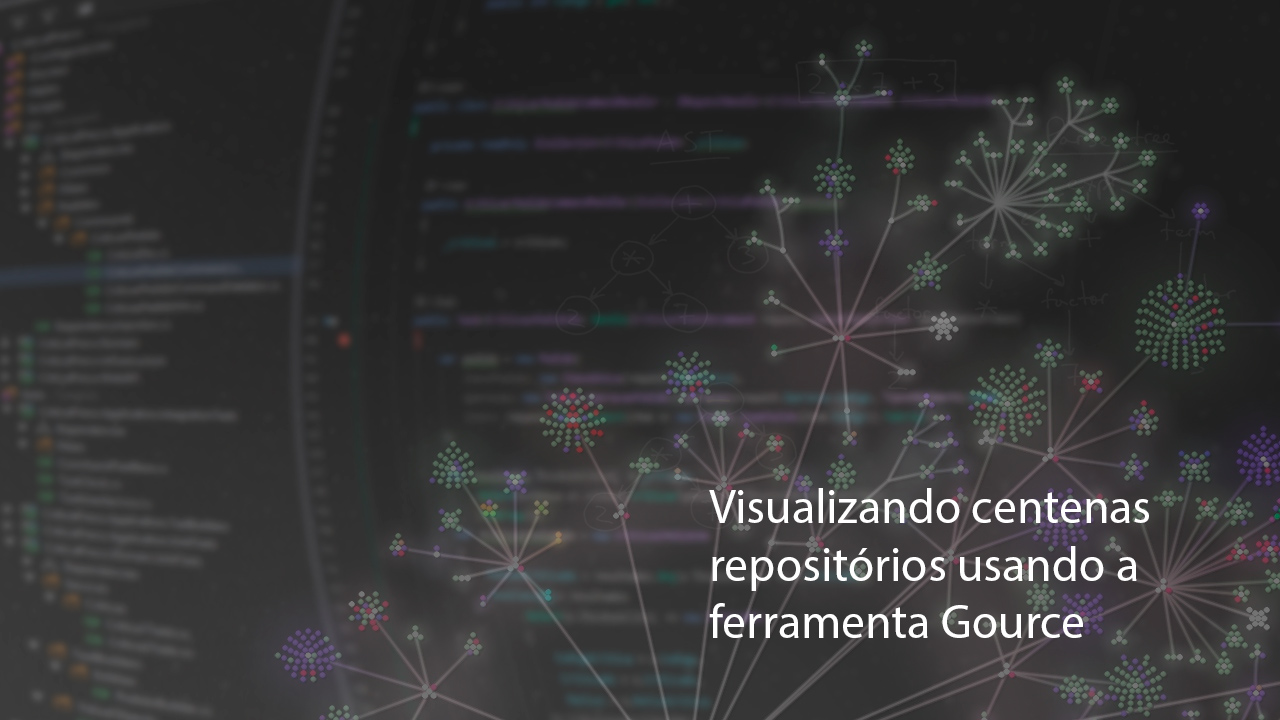
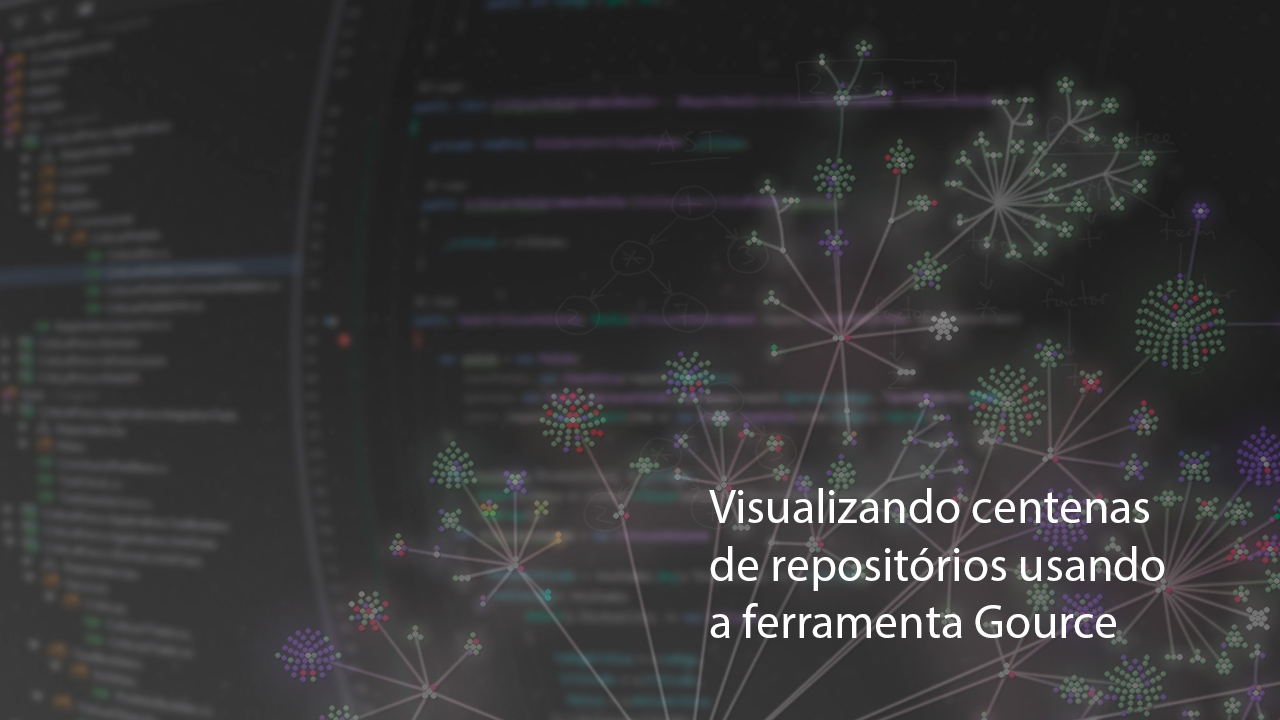
Atualização

Changed region(s): [[0.5312, 0.7639, 0.9062, 0.8861]]

diff --git a/posts/artigo-visualizando-centenas-projetos-com-gource/index.html b/posts/artigo-visualizando-centenas-projetos-com-gource/index.html
@@ -15,8 +15,8 @@
          "@id": "https:\/\/blog.dyegomaas.com.br\/"
     },
     "articleSection" : "posts",
-    "name" : "Visualizando centenas repositórios usando a ferramenta Gource",
-    "headline" : "Visualizando centenas repositórios usando a ferramenta Gource",
+    "name" : "Visualizando centenas de repositórios usando a ferramenta Gource",
+    "headline" : "Visualizando centenas de repositórios usando a ferramenta Gource",
     "description" : "Descubra como visualizar o trabalho de centenas de pessoas usando centenas de repositórios Git usando a ferramenta Gource",
     "inLanguage" : "pt-BR",
     "author" : {
@@ -55,7 +55,7 @@
     
     
 
-<title itemprop="name">Visualizando centenas repositórios usando a ferramenta Gource - Blog Dyego Maas</title>
+<title itemprop="name">Visualizando centenas de repositórios usando a ferramenta Gource - Blog Dyego Maas</title>
 <meta property="description" content="Descubra como visualizar o trabalho de centenas de pessoas usando centenas de repositórios Git usando a ferramenta Gource" />
 
 
@@ -79,8 +79,8 @@
 <link rel="canonical" href="https://blog.dyegomaas.com.br/posts/artigo-visualizando-centenas-projetos-com-gource/" itemprop="url" />
 <meta name="url" content="https://blog.dyegomaas.com.br/posts/artigo-visualizando-centenas-projetos-com-gource/" />
 <meta property="og:site_name" content="Blog - Dyego Maas" />
-<meta property="og:title" content="Visualizando centenas repositórios usando a ferramenta Gource" />
-<meta property="twitter:title" content="Visualizando centenas repositórios usando a ferramenta Gource" />
+<meta property="og:title" content="Visualizando centenas de repositórios usando a ferramenta Gource" />
+<meta property="twitter:title" content="Visualizando centenas de repositórios usando a ferramenta Gource" />
 <meta property="og:description" content="Descubra como visualizar o trabalho de centenas de pessoas usando centenas de repositórios Git usando a ferramenta Gource" />
 <meta property="twitter:description" content="Descubra como visualizar o trabalho de centenas de pessoas usando centenas de repositórios Git usando a ferramenta Gource" />
 <meta property="og:type" content="article" />
@@ -316,7 +316,7 @@
     
 <article class="real">
   <header>
-    <h1>Visualizando centenas repositórios usando a ferramenta Gource</h1>
+    <h1>Visualizando centenas de repositórios usando a ferramenta Gource</h1>
     
     
 <div class="post__meta">
@@ -399,7 +399,7 @@
         <p class="post-series-paragraph">Posts na série:</p>
         <ul class="series">
         
-          <li><a href="https://blog.dyegomaas.com.br/posts/artigo-visualizando-centenas-projetos-com-gource/">12/2021 - Visualizando centenas repositórios usando a ferramenta Gource</a></li>
+          <li><a href="https://blog.dyegomaas.com.br/posts/artigo-visualizando-centenas-projetos-com-gource/">12/2021 - Visualizando centenas de repositórios usando a ferramenta Gource</a></li>
         
           <li><a href="https://blog.dyegomaas.com.br/posts/artigo-como-visualizar-desenvolvimento-com-gource/">06/2020 - Como visualizar o desenvolvimento de projetos com Gource</a></li>
         
@@ -1089,8 +1089,8 @@ text-align: center;
 
 <span style="color: silver;">Compartilhe: </span><div id="share-buttons">
 <div class="facebook" title="Compartilhe no Facebook" onclick="window.open('http://www.facebook.com/sharer/sharer.php?u=https:\/\/blog.dyegomaas.com.br\/posts\/artigo-visualizando-centenas-projetos-com-gource\/', 'sharer', 'width=626,height=436');"><svg viewBox="0 0 1792 1792" xmlns="http://www.w3.org/2000/svg"><path d="M1343 12v264h-157q-86 0-116 36t-30 108v189h293l-39 296h-254v759h-306v-759h-255v-296h255v-218q0-186 104-288.5t277-102.5q147 0 228 12z"/></svg></div>
-<div class="twitter" title="Compartilhe no Twitter" onclick="window.open('http://twitter.com/share?text=Visualizando centenas repositórios usando a ferramenta Gource&url=https:\/\/blog.dyegomaas.com.br\/posts\/artigo-visualizando-centenas-projetos-com-gource\/&hashtags=gource,video,hercules,ambevtech');"><svg viewBox="0 0 1792 1792" xmlns="http://www.w3.org/2000/svg"><path d="M1684 408q-67 98-162 167 1 14 1 42 0 130-38 259.5t-115.5 248.5-184.5 210.5-258 146-323 54.5q-271 0-496-145 35 4 78 4 225 0 401-138-105-2-188-64.5t-114-159.5q33 5 61 5 43 0 85-11-112-23-185.5-111.5t-73.5-205.5v-4q68 38 146 41-66-44-105-115t-39-154q0-88 44-163 121 149 294.5 238.5t371.5 99.5q-8-38-8-74 0-134 94.5-228.5t228.5-94.5q140 0 236 102 109-21 205-78-37 115-142 178 93-10 186-50z"/></svg></div>
-<div class="linkedin" title="Compartilhe no Linkedin" onclick="window.open('https://www.linkedin.com/shareArticle?mini=true&url=https:\/\/blog.dyegomaas.com.br\/posts\/artigo-visualizando-centenas-projetos-com-gource\/&title=Visualizando centenas repositórios usando a ferramenta Gource', 'sharer', 'width=626,height=700');"><svg viewBox="0 0 1792 1792" xmlns="http://www.w3.org/2000/svg"><path d="M477 625v991h-330v-991h330zm21-306q1 73-50.5 122t-135.5 49h-2q-82 0-132-49t-50-122q0-74 51.5-122.5t134.5-48.5 133 48.5 51 122.5zm1166 729v568h-329v-530q0-105-40.5-164.5t-126.5-59.5q-63 0-105.5 34.5t-63.5 85.5q-11 30-11 81v553h-329q2-399 2-647t-1-296l-1-48h329v144h-2q20-32 41-56t56.5-52 87-43.5 114.5-15.5q171 0 275 113.5t104 332.5z"/></svg></div>
+<div class="twitter" title="Compartilhe no Twitter" onclick="window.open('http://twitter.com/share?text=Visualizando centenas de repositórios usando a ferramenta Gource&url=https:\/\/blog.dyegomaas.com.br\/posts\/artigo-visualizando-centenas-projetos-com-gource\/&hashtags=gource,video,hercules,ambevtech');"><svg viewBox="0 0 1792 1792" xmlns="http://www.w3.org/2000/svg"><path d="M1684 408q-67 98-162 167 1 14 1 42 0 130-38 259.5t-115.5 248.5-184.5 210.5-258 146-323 54.5q-271 0-496-145 35 4 78 4 225 0 401-138-105-2-188-64.5t-114-159.5q33 5 61 5 43 0 85-11-112-23-185.5-111.5t-73.5-205.5v-4q68 38 146 41-66-44-105-115t-39-154q0-88 44-163 121 149 294.5 238.5t371.5 99.5q-8-38-8-74 0-134 94.5-228.5t228.5-94.5q140 0 236 102 109-21 205-78-37 115-142 178 93-10 186-50z"/></svg></div>
+<div class="linkedin" title="Compartilhe no Linkedin" onclick="window.open('https://www.linkedin.com/shareArticle?mini=true&url=https:\/\/blog.dyegomaas.com.br\/posts\/artigo-visualizando-centenas-projetos-com-gource\/&title=Visualizando centenas de repositórios usando a ferramenta Gource', 'sharer', 'width=626,height=700');"><svg viewBox="0 0 1792 1792" xmlns="http://www.w3.org/2000/svg"><path d="M477 625v991h-330v-991h330zm21-306q1 73-50.5 122t-135.5 49h-2q-82 0-132-49t-50-122q0-74 51.5-122.5t134.5-48.5 133 48.5 51 122.5zm1166 729v568h-329v-530q0-105-40.5-164.5t-126.5-59.5q-63 0-105.5 34.5t-63.5 85.5q-11 30-11 81v553h-329q2-399 2-647t-1-296l-1-48h329v144h-2q20-32 41-56t56.5-52 87-43.5 114.5-15.5q171 0 275 113.5t104 332.5z"/></svg></div>
 <div class="mail" title="Compartilhe por Email" onclick="window.open('mailto:?&body=https:\/\/blog.dyegomaas.com.br\/posts\/artigo-visualizando-centenas-projetos-com-gource\/');"><svg viewBox="0 0 1792 1792" xmlns="http://www.w3.org/2000/svg"><path d="M1792 710v794q0 66-47 113t-113 47h-1472q-66 0-113-47t-47-113v-794q44 49 101 87 362 246 497 345 57 42 92.5 65.5t94.5 48 110 24.5h2q51 0 110-24.5t94.5-48 92.5-65.5q170-123 498-345 57-39 100-87zm0-294q0 79-49 151t-122 123q-376 261-468 325-10 7-42.5 30.5t-54 38-52 32.5-57.5 27-50 9h-2q-23 0-50-9t-57.5-27-52-32.5-54-38-42.5-30.5q-91-64-262-182.5t-205-142.5q-62-42-117-115.5t-55-136.5q0-78 41.5-130t118.5-52h1472q65 0 112.5 47t47.5 113z"/></svg></div>
 </div>
   

diff --git a/posts/artigo-como-visualizar-desenvolvimento-com-gource/index.html b/posts/artigo-como-visualizar-desenvolvimento-com-gource/index.html
@@ -394,7 +394,7 @@
         <p class="post-series-paragraph">Posts na série:</p>
         <ul class="series">
         
-          <li><a href="https://blog.dyegomaas.com.br/posts/artigo-visualizando-centenas-projetos-com-gource/">12/2021 - Visualizando centenas repositórios usando a ferramenta Gource</a></li>
+          <li><a href="https://blog.dyegomaas.com.br/posts/artigo-visualizando-centenas-projetos-com-gource/">12/2021 - Visualizando centenas de repositórios usando a ferramenta Gource</a></li>
         
           <li><a href="https://blog.dyegomaas.com.br/posts/artigo-como-visualizar-desenvolvimento-com-gource/">06/2020 - Como visualizar o desenvolvimento de projetos com Gource</a></li>
         

diff --git a/posts/artigo-posicionamento-variaveis/index.html b/posts/artigo-posicionamento-variaveis/index.html
@@ -552,7 +552,7 @@ text-align: center;
     
     
     <a href="/posts/artigo-visualizando-centenas-projetos-com-gource/" class="navigation-next">
-      <span class="navigation-tittle">Visualizando centenas repositórios usando a ferramenta Gource</span>
+      <span class="navigation-tittle">Visualizando centenas de repositórios usando a ferramenta Gource</span>
       <i aria-hidden="true" class="fa fa-chevron-right"></i>
     </a>
     

diff --git a/categories/tutorial/index.html b/categories/tutorial/index.html
@@ -320,7 +320,7 @@
     
     <a href="/posts/artigo-visualizando-centenas-projetos-com-gource/" >
       <header class="post-card-header">
-        <h2 class="post-card-header-title">Visualizando centenas repositórios usando a ferramenta Gource</h2>
+        <h2 class="post-card-header-title">Visualizando centenas de repositórios usando a ferramenta Gource</h2>
       </header>
       <section class="post-card-excerpt">
         <p>

diff --git a/index.html b/index.html
@@ -316,7 +316,7 @@
     
     <a href="/posts/artigo-visualizando-centenas-projetos-com-gource/" >
       <header class="post-card-header">
-        <h2 class="post-card-header-title">Visualizando centenas repositórios usando a ferramenta Gource</h2>
+        <h2 class="post-card-header-title">Visualizando centenas de repositórios usando a ferramenta Gource</h2>
       </header>
       <section class="post-card-excerpt">
         <p>

diff --git a/posts/index.html b/posts/index.html
@@ -320,7 +320,7 @@
     
     <a href="/posts/artigo-visualizando-centenas-projetos-com-gource/" >
       <header class="post-card-header">
-        <h2 class="post-card-header-title">Visualizando centenas repositórios usando a ferramenta Gource</h2>
+        <h2 class="post-card-header-title">Visualizando centenas de repositórios usando a ferramenta Gource</h2>
       </header>
       <section class="post-card-excerpt">
         <p>

diff --git a/series/gource/index.html b/series/gource/index.html
@@ -320,7 +320,7 @@
     
     <a href="/posts/artigo-visualizando-centenas-projetos-com-gource/" >
       <header class="post-card-header">
-        <h2 class="post-card-header-title">Visualizando centenas repositórios usando a ferramenta Gource</h2>
+        <h2 class="post-card-header-title">Visualizando centenas de repositórios usando a ferramenta Gource</h2>
       </header>
       <section class="post-card-excerpt">
         <p>

diff --git a/tags/ambevtech/index.html b/tags/ambevtech/index.html
@@ -320,7 +320,7 @@
     
     <a href="/posts/artigo-visualizando-centenas-projetos-com-gource/" >
       <header class="post-card-header">
-        <h2 class="post-card-header-title">Visualizando centenas repositórios usando a ferramenta Gource</h2>
+        <h2 class="post-card-header-title">Visualizando centenas de repositórios usando a ferramenta Gource</h2>
       </header>
       <section class="post-card-excerpt">
         <p>

diff --git a/tags/gource/index.html b/tags/gource/index.html
@@ -320,7 +320,7 @@
     
     <a href="/posts/artigo-visualizando-centenas-projetos-com-gource/" >
       <header class="post-card-header">
-        <h2 class="post-card-header-title">Visualizando centenas repositórios usando a ferramenta Gource</h2>
+        <h2 class="post-card-header-title">Visualizando centenas de repositórios usando a ferramenta Gource</h2>
       </header>
       <section class="post-card-excerpt">
         <p>

diff --git a/tags/hercules/index.html b/tags/hercules/index.html
@@ -320,7 +320,7 @@
     
     <a href="/posts/artigo-visualizando-centenas-projetos-com-gource/" >
       <header class="post-card-header">
-        <h2 class="post-card-header-title">Visualizando centenas repositórios usando a ferramenta Gource</h2>
+        <h2 class="post-card-header-title">Visualizando centenas de repositórios usando a ferramenta Gource</h2>
       </header>
       <section class="post-card-excerpt">
         <p>

diff --git a/tags/video/index.html b/tags/video/index.html
@@ -320,7 +320,7 @@
     
     <a href="/posts/artigo-visualizando-centenas-projetos-com-gource/" >
       <header class="post-card-header">
-        <h2 class="post-card-header-title">Visualizando centenas repositórios usando a ferramenta Gource</h2>
+        <h2 class="post-card-header-title">Visualizando centenas de repositórios usando a ferramenta Gource</h2>
       </header>
       <section class="post-card-excerpt">
         <p>
